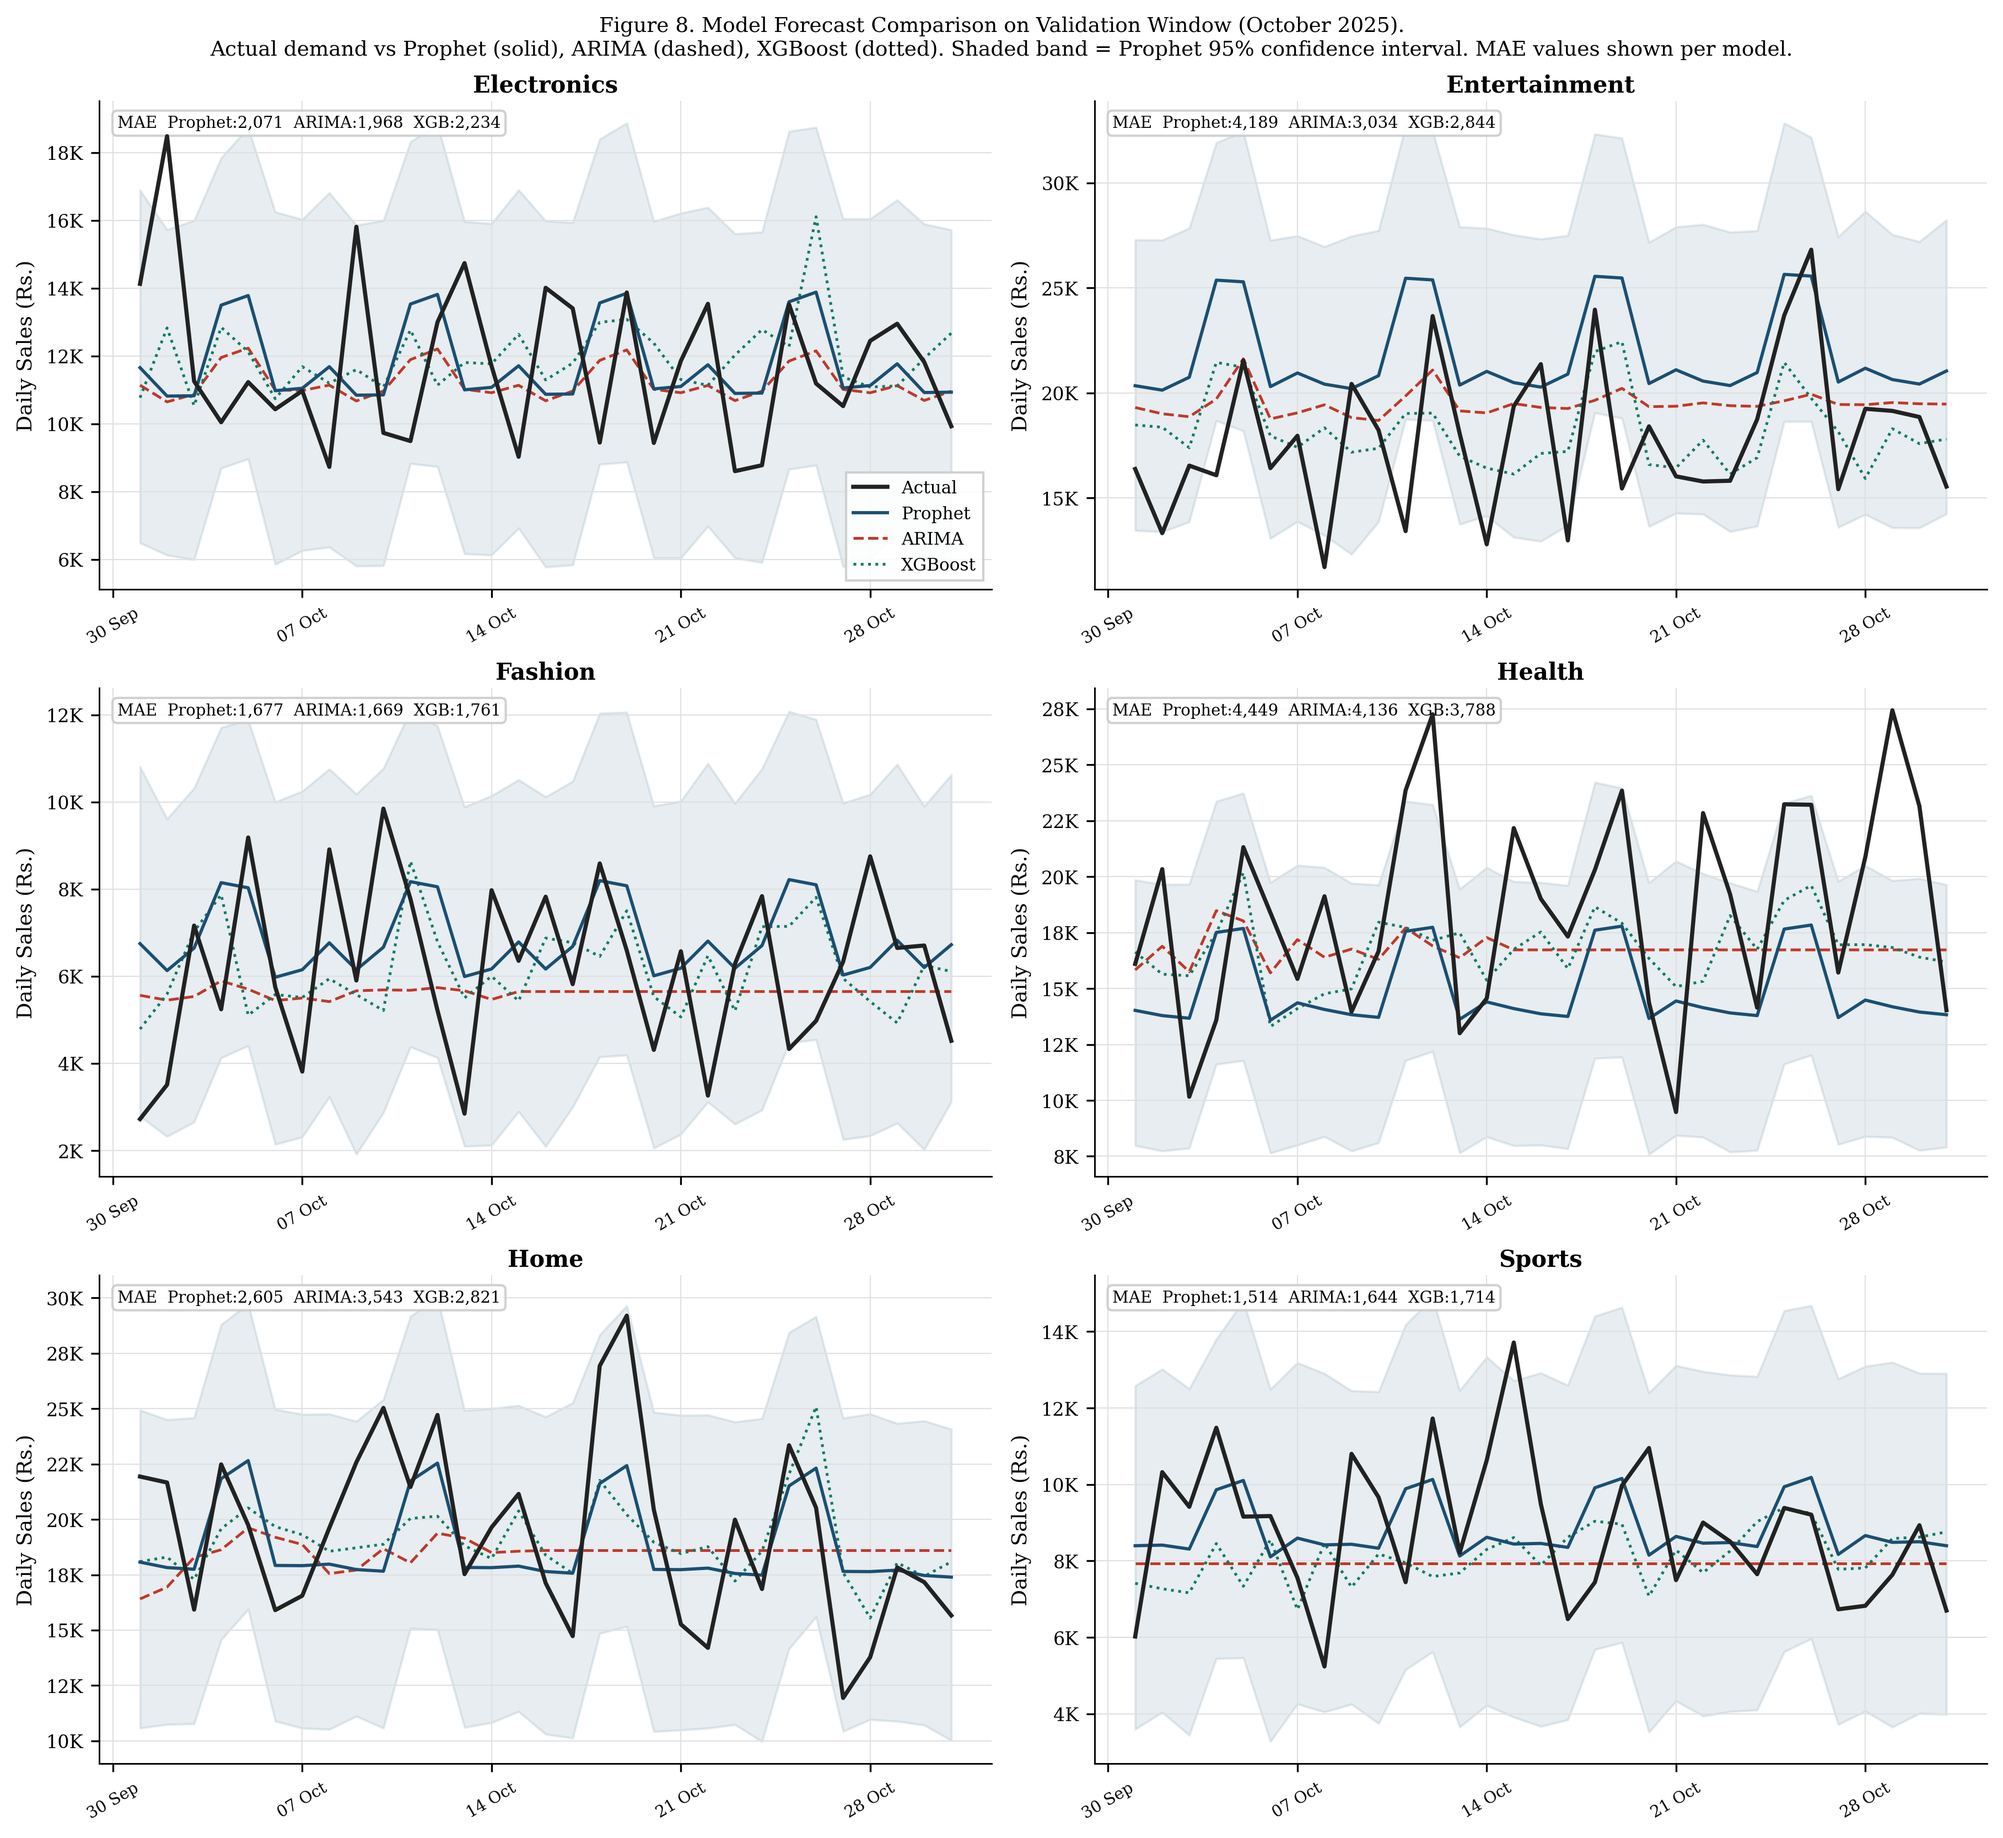
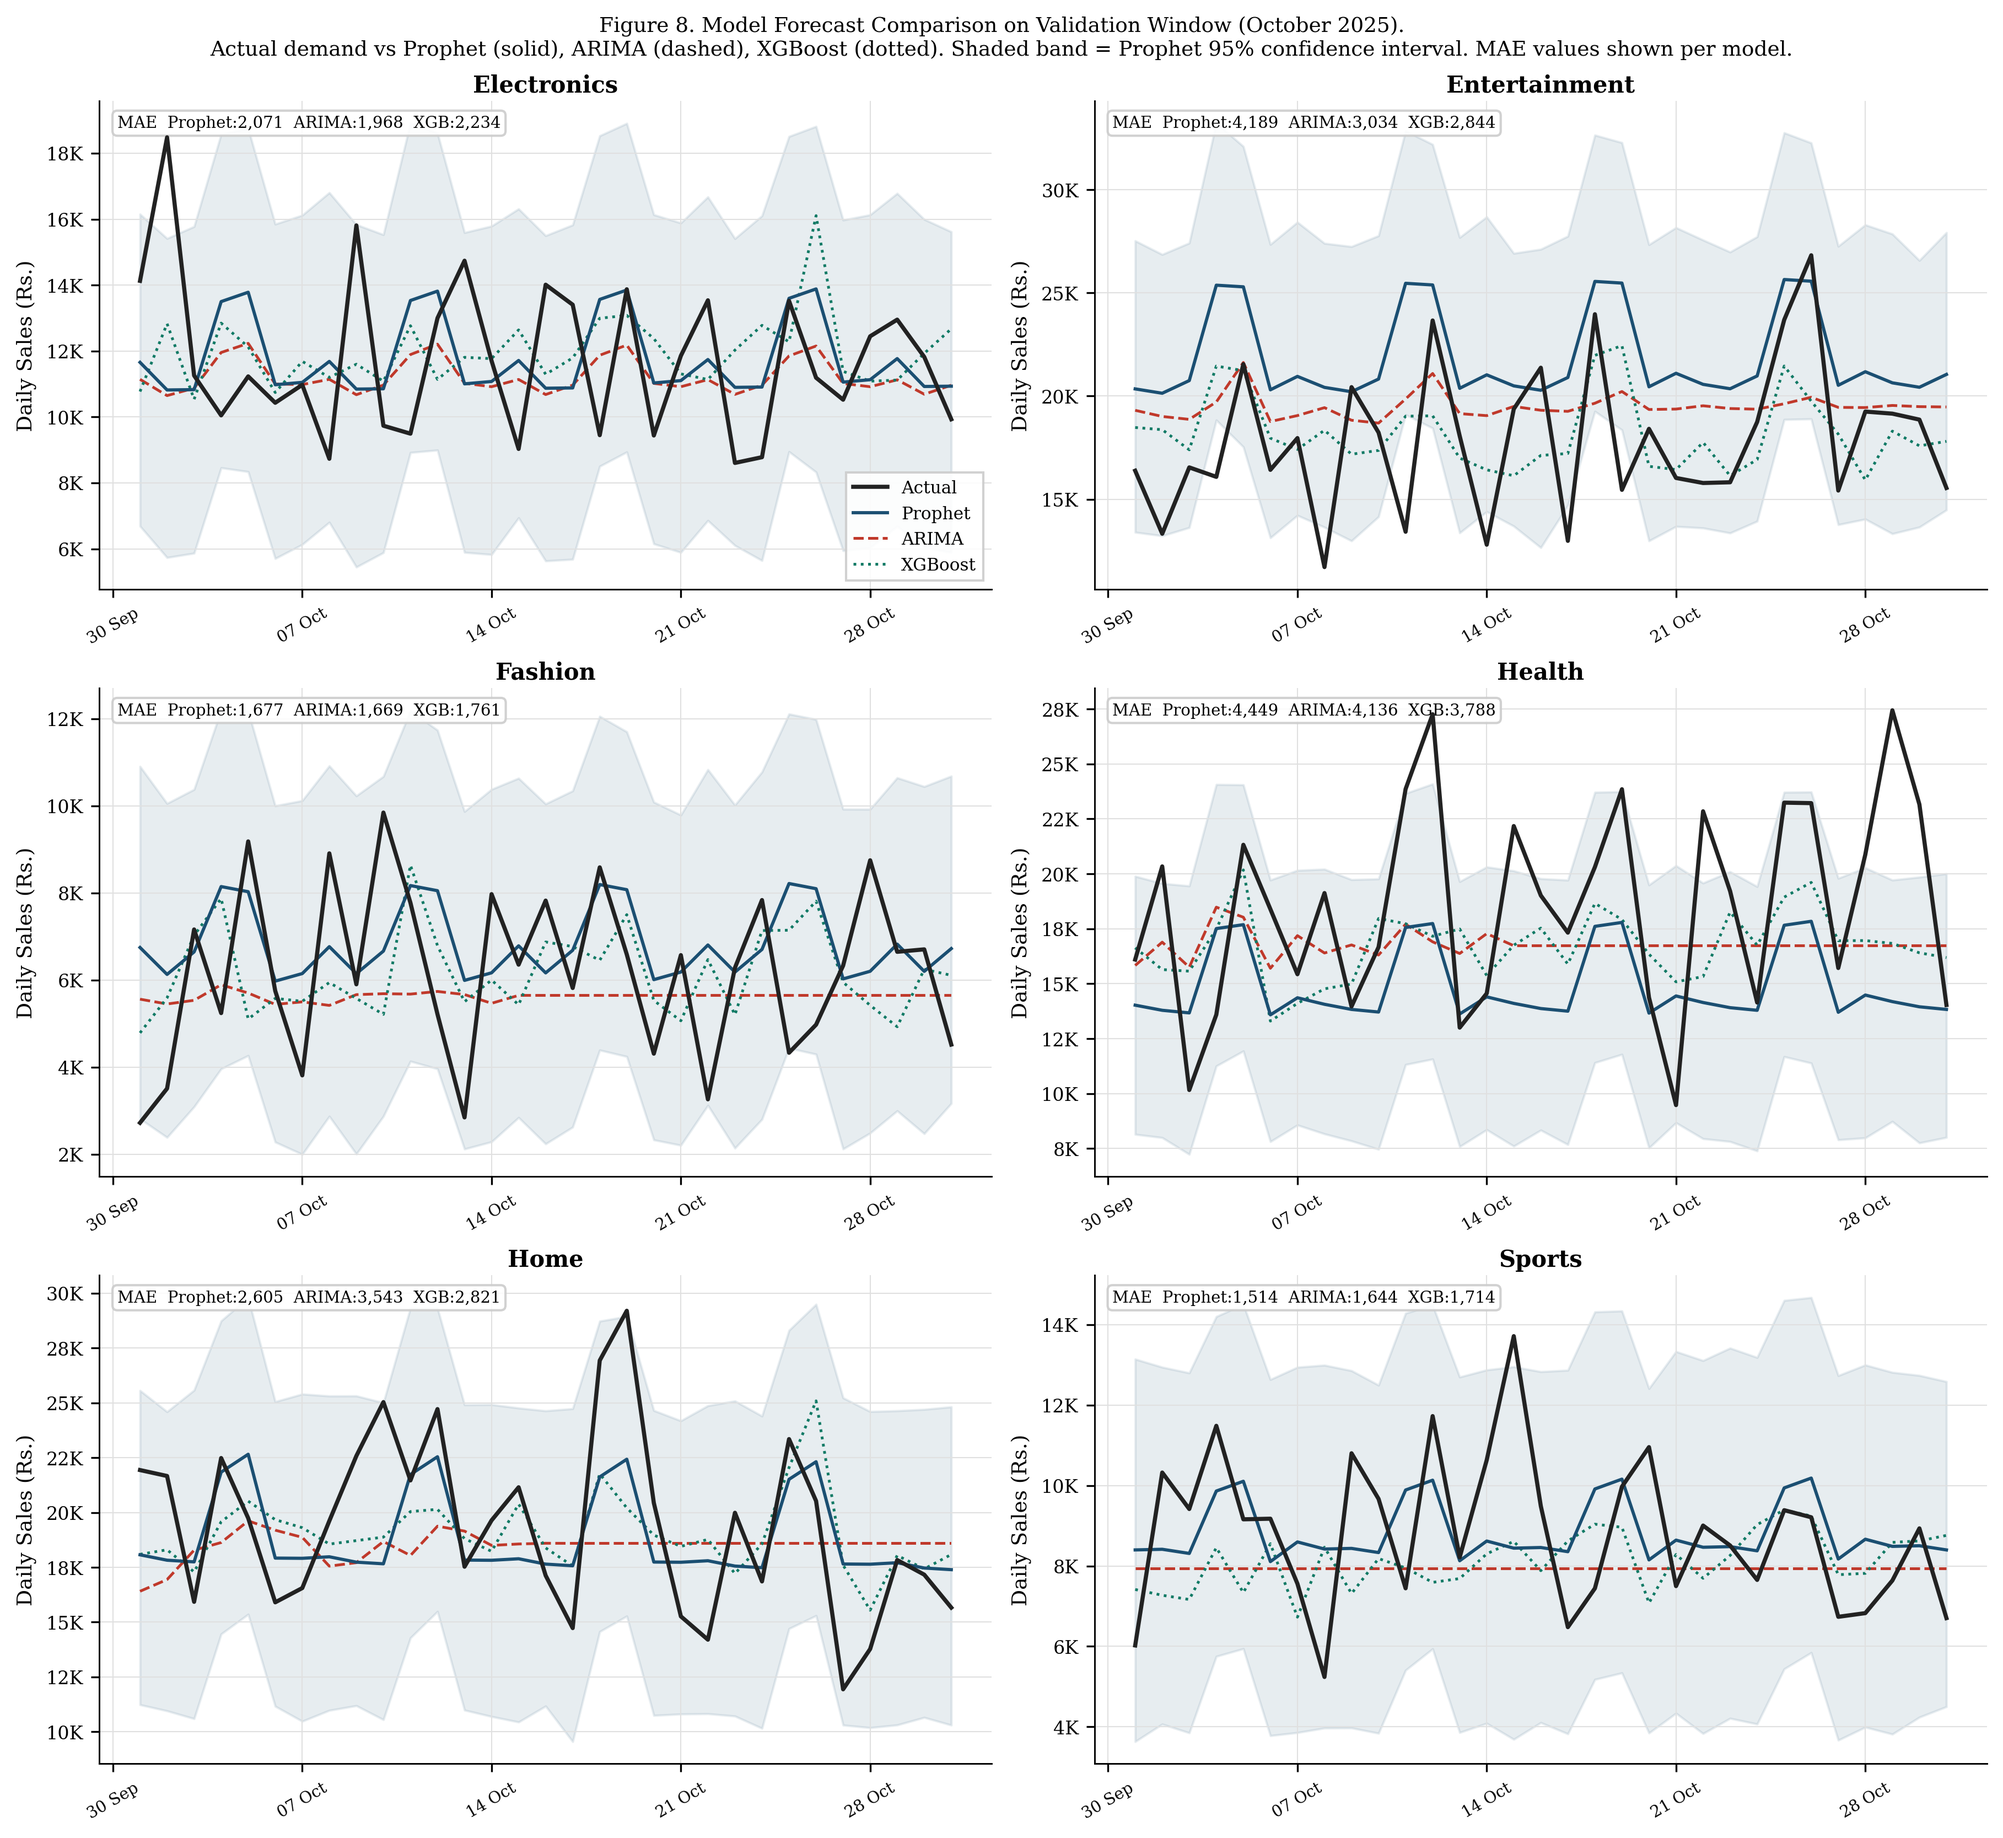
docs+fix: update README with FW skip decisions and deployment story; fix notebook figure paths
- misc/README.md: mark FW1/FW2/FW6 as skip with rationale
- misc/README.md: add MLOps deployment story diagram showing what's done vs missing
- misc/README.md: FW2 threshold corrected 2.0x -> 1.5x
- misc/README.md: CI fix history entry added for ../reports/ path fix
- src/drift_detection/drift_detector.py: updated docstring detection times
- notebooks/reports/figures/: refreshed fig8 and fig10 from latest cell run

diff --git a/src/drift_detection/drift_detector.py b/src/drift_detection/drift_detector.py
@@ -29,9 +29,11 @@ window fires too many false positives on gradual drift. A single
 long window misses abrupt drift for several days. The dual-window
 approach independently monitors both timescales simultaneously.
 
-Expected detection times on this dataset:
-  Electronics (abrupt +50%): short window fires Nov 1, long ~Nov 4
-  Health (gradual +40%):     long window fires ~Nov 14-16
+Expected detection times on this dataset (61-day window: Nov 1 – Dec 31):
+  Electronics (abrupt +50%): short window fires Nov 1, retrain Nov 3 (61/61 drift days)
+  Health (gradual +40%):     already drifted by Nov 1, flags Day 3, retrain Nov 5 (52/61 drift days)
+  Note: Health drift starts Aug 1 — by the time the eval window opens Nov 1 it is
+  already well above threshold, so it fires on Day 3 not Nov 14.
 """
 
 import numpy as np
